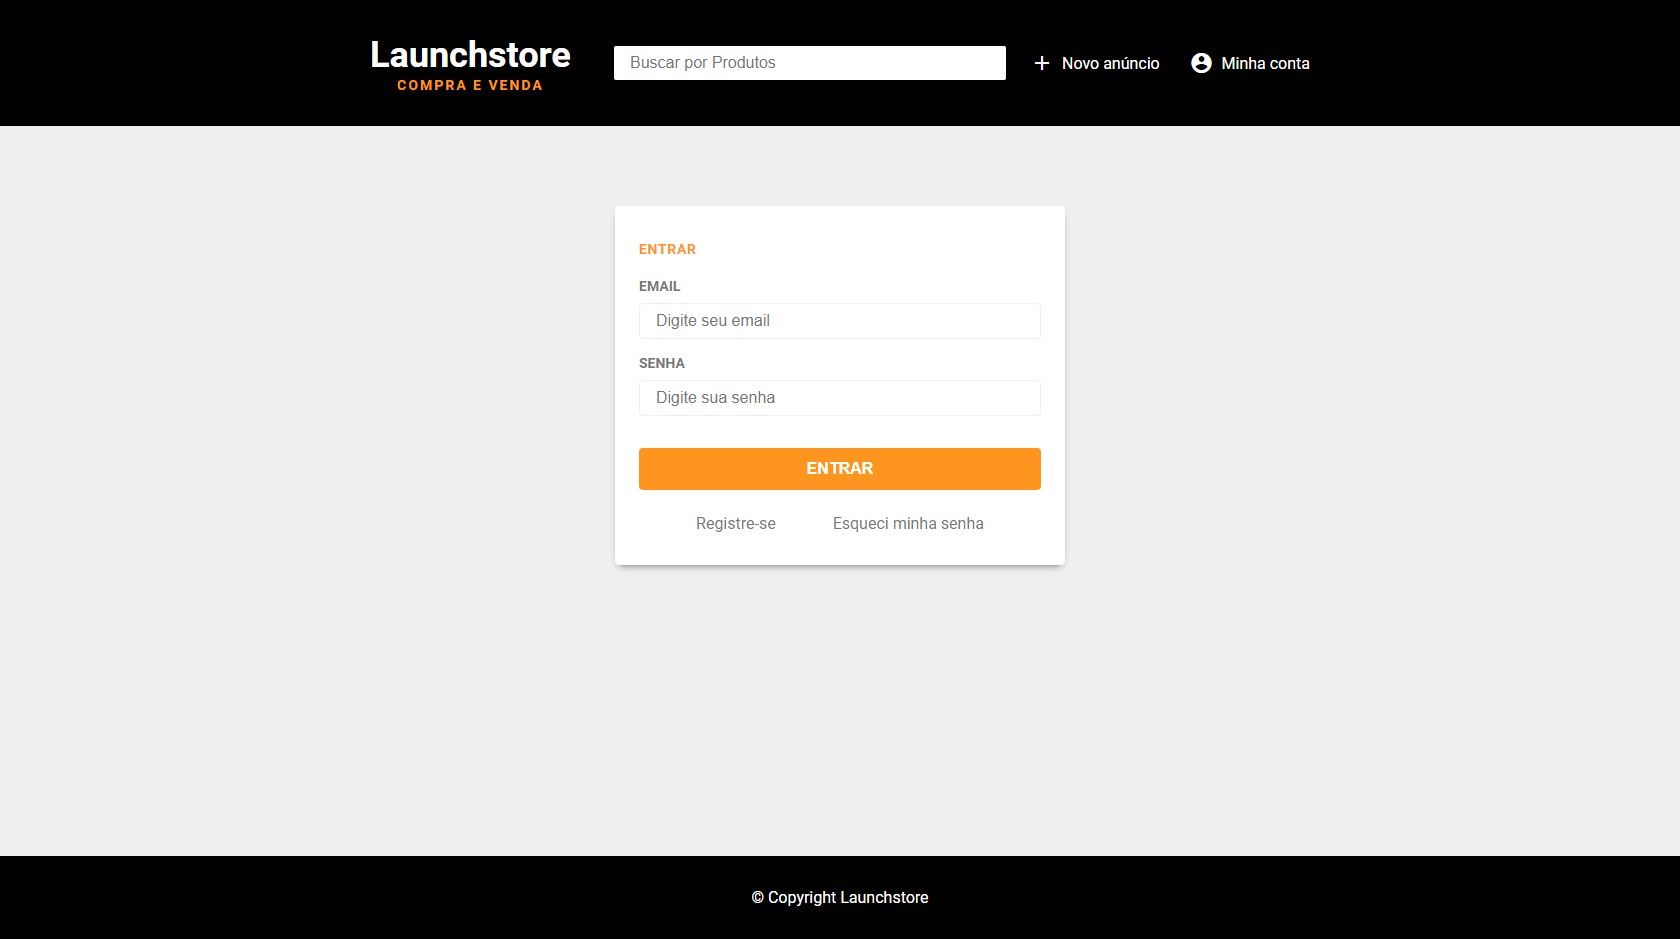
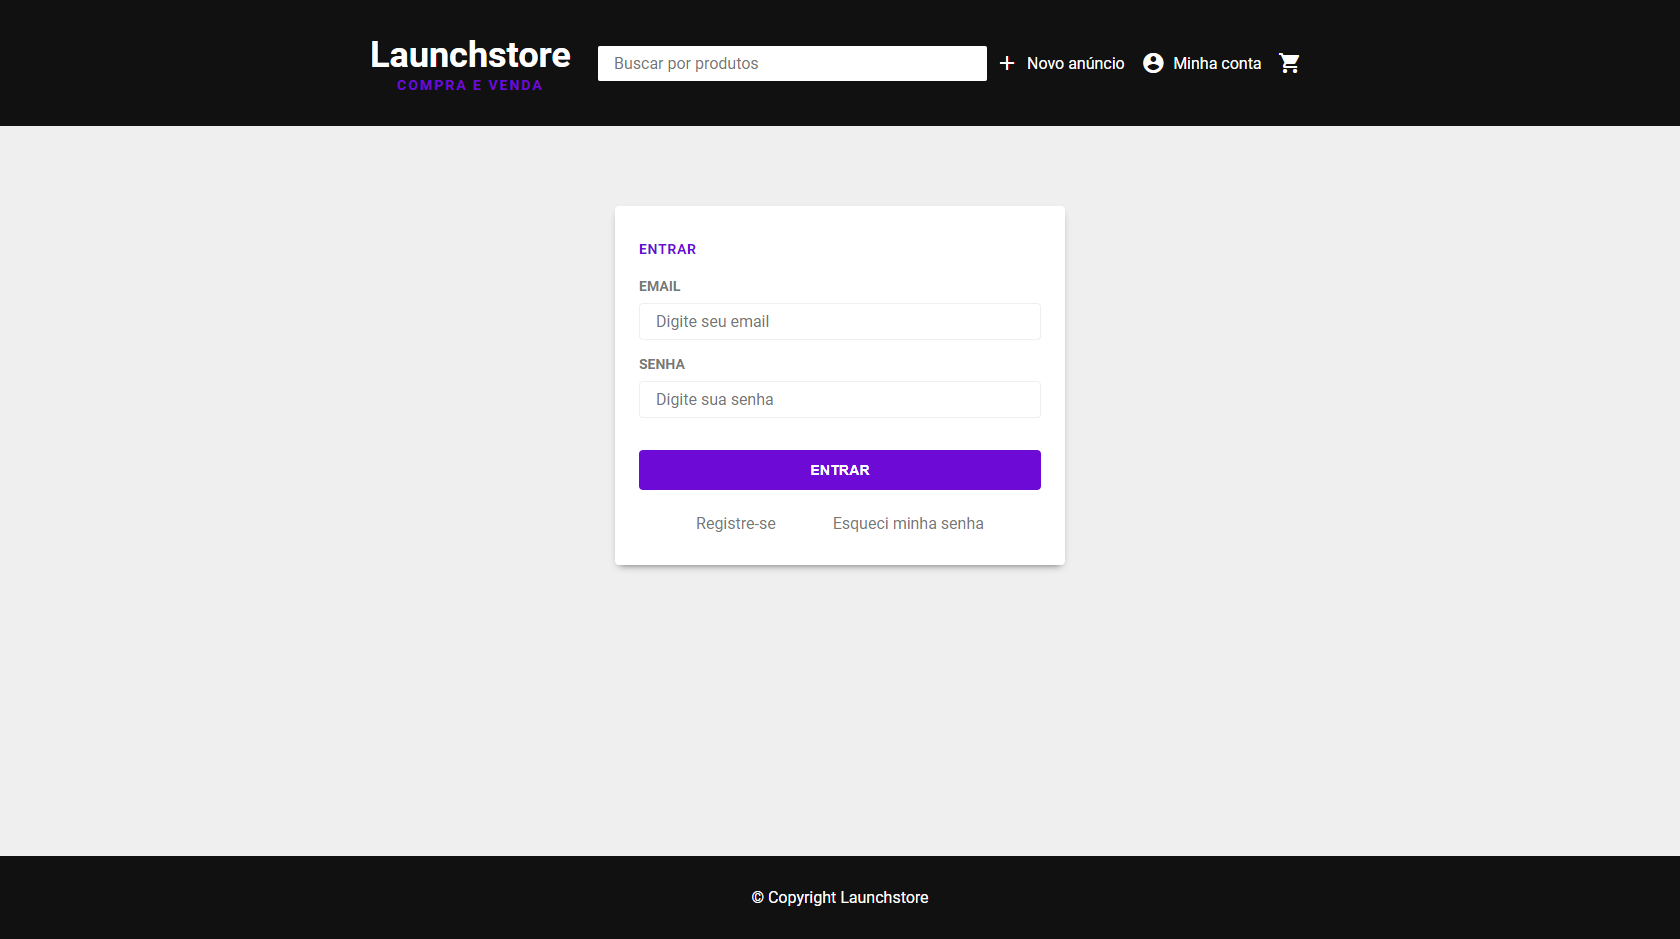
Update README.md

diff --git a/README.md b/README.md
@@ -11,11 +11,12 @@
 
 ## 📌 Resources 
 
-- 🛒 Buying and selling products.
+- 💰 Buying and selling products.
 - 📃 Search by categories.
 - 🖼 Upload images.
 - 🔑 Password recovery and session.
 - 🎞 Post-order animations.
+- 🛒 Cart and order management
 
 ## 🚀 Technologies used
 
@@ -52,6 +53,22 @@ The following technologies were used
 
 ![product](./.github/product.png)
 
+**Cart**
+
+![cart](.github/cart.png)
+
+**Ads**
+
+![ads](.github/ads.png)
+
+**Sales**
+
+![my-sales](.github/sales.png)
+
+**Orders**
+
+![orders](.github/orders.png)
+
 **Post-order animation**
 
 ![post-order](.github/order-success.png)
@@ -64,9 +81,9 @@ The following technologies were used
 
 ![user](.github/user.png)
 
-**Sending emails**
+**Menu dropdown**
 
-![send](.github/email.png)
+![menu](.github/dropdown.png)
 
 ---
 
